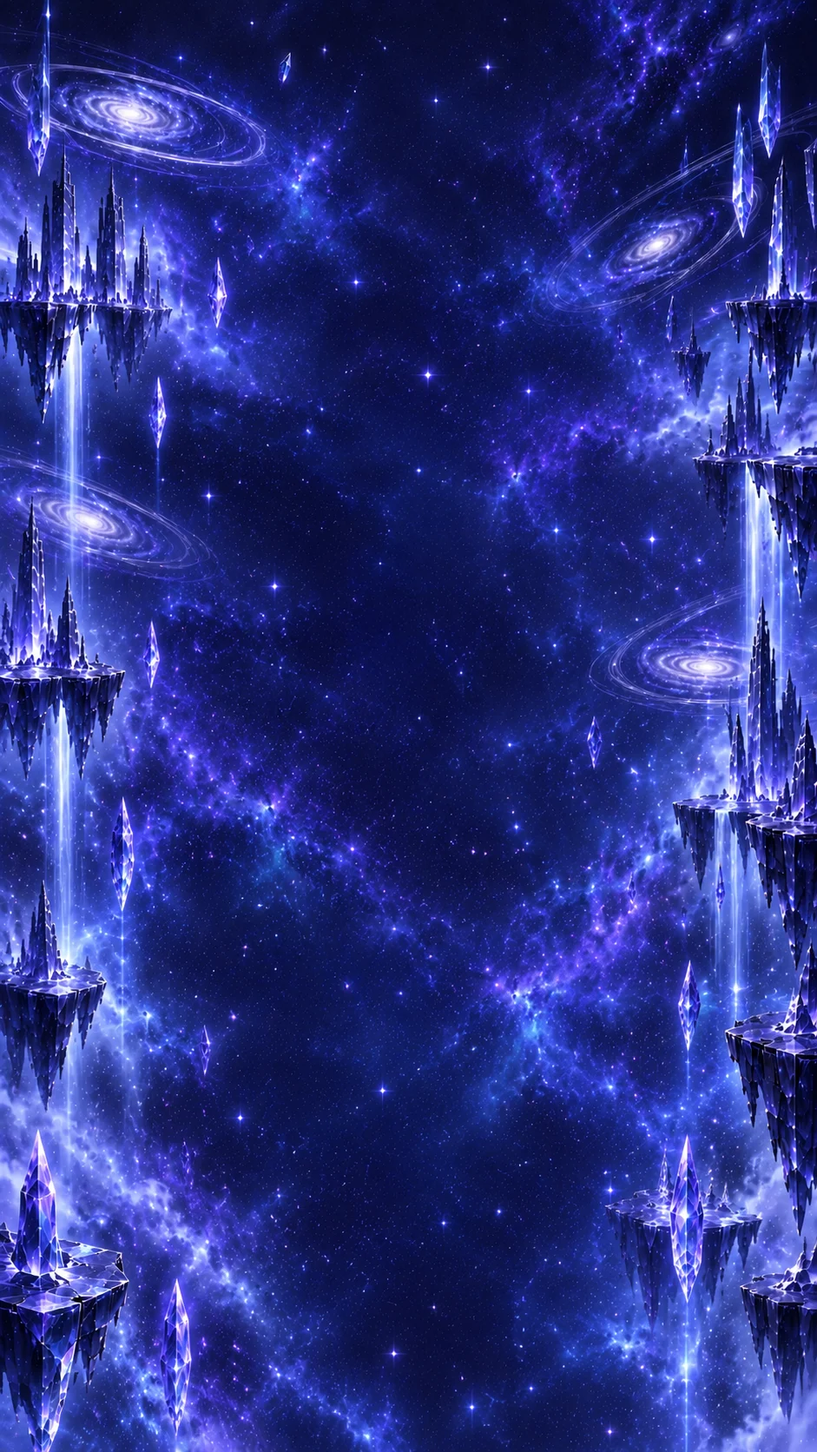
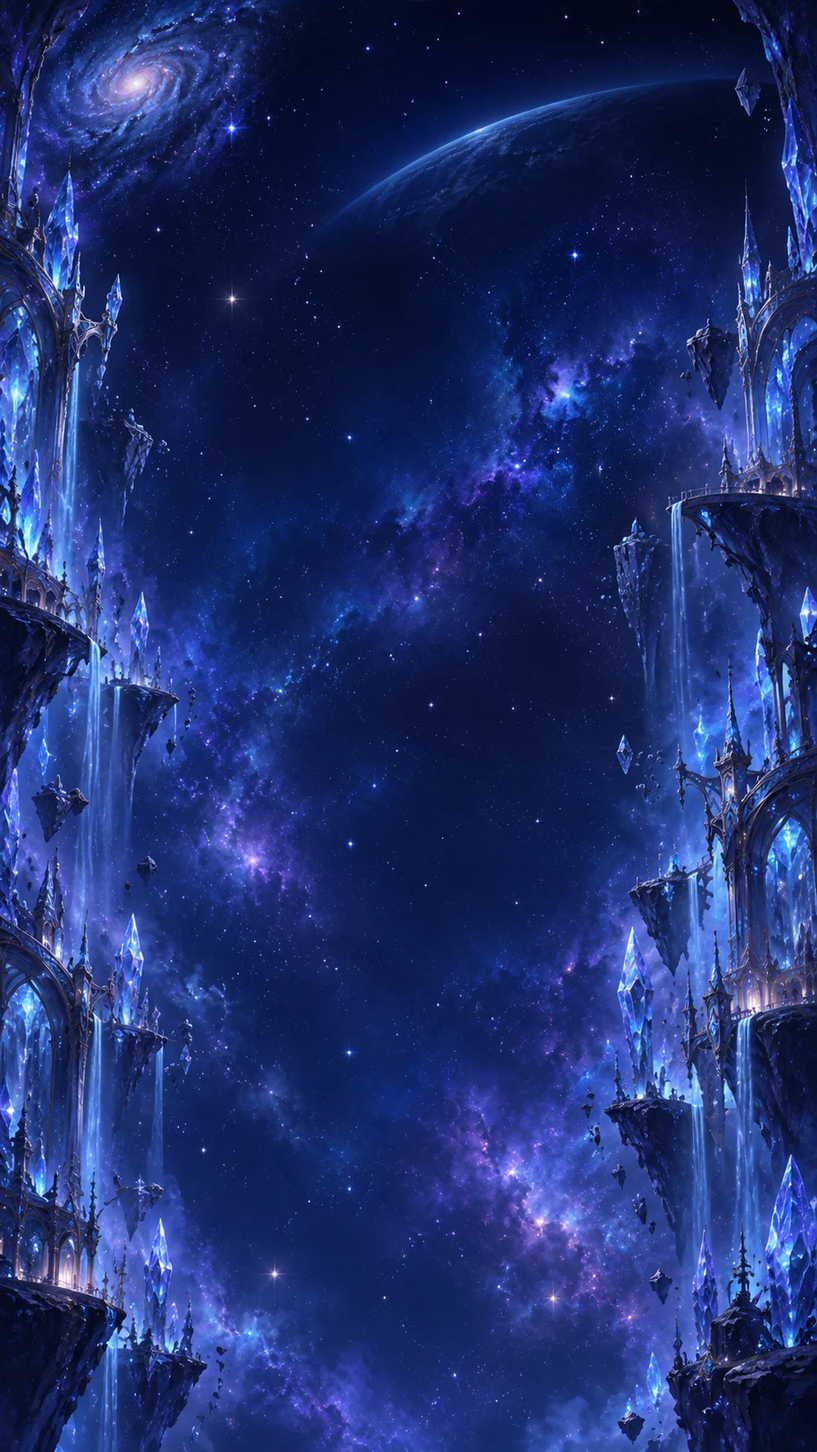
v225: 絵の中の世界を新素材で作り直し（背景・結晶・星環）。島・ステージ・敵は削除

diff --git a/index.html b/index.html
@@ -2023,17 +2023,6 @@ body{background:linear-gradient(180deg,#0a0020 0%,#12002e 40%,#180040 70%,#1a003
 .pzx-screen .reset{min-height:calc(30 * var(--u));padding:0 calc(14 * var(--u));border-radius:999px;border:1px solid rgba(255,140,160,.35);background:transparent;color:#c9a0aa;font-family:inherit;font-size:calc(10.5 * var(--u));cursor:pointer;margin-top:calc(-4 * var(--u));}
 .pzx-screen .reset.ask{border-color:#ff8fa3;color:#ffd0d8;background:rgba(255,80,110,.12);}
 .pzx-screen .home{min-height:calc(38 * var(--u));padding:0 calc(22 * var(--u));border-radius:999px;border:1px solid rgba(190,180,255,.35);background:rgba(20,16,50,.65);color:#d6cfff;font-family:inherit;font-size:calc(12.5 * var(--u));cursor:pointer;}
-/* 中のマップ（仮：道と6個の丸。絵が来たら差し替え） */
-.pzx-map{position:relative;width:min(94vw,calc(330 * var(--u)));aspect-ratio:330 / 420;border-radius:calc(16 * var(--u));overflow:hidden;background:rgba(10,12,40,.6);box-shadow:0 0 0 1px rgba(190,180,255,.25),0 12px 30px rgba(0,0,0,.5);}
-.pzx-map .bg{position:absolute;inset:0;width:100%;height:100%;object-fit:cover;opacity:.18;filter:blur(2px) saturate(.8);}
-.pzx-map svg{position:absolute;inset:0;width:100%;height:100%;}
-.pzx-map path.road{fill:none;stroke:rgba(200,190,255,.45);stroke-width:3;stroke-dasharray:6 7;}
-.pzx-nd{cursor:pointer;}
-.pzx-nd circle.o{fill:rgba(30,24,80,.85);stroke:rgba(200,180,255,.7);stroke-width:2;}
-.pzx-nd circle.g{fill:none;stroke:rgba(200,180,255,.35);stroke-width:6;filter:blur(3px);}
-.pzx-nd text{fill:#fff3c4;font-family:'Cinzel',serif;font-weight:700;font-size:15px;text-anchor:middle;dominant-baseline:central;}
-.pzx-nd text.s{fill:#b9b2d8;font-family:'Noto Serif JP',serif;font-weight:400;font-size:8px;}
-.pzx-nd.soon{opacity:.55;cursor:default;}
 /* ===== v217 パズルクス：絵の中の世界（浮遊マップ）と結果 ===== */
 .pzx-world{--u:min(calc(100vw / 360),calc(100dvh / 640));position:fixed;inset:0;background:#07091b;display:flex;flex-direction:column;align-items:center;font-family:'Noto Serif JP',serif;color:#e6ecfa;overflow:hidden;}
 .pzx-world .top{position:absolute;left:0;top:0;width:100%;display:flex;align-items:center;justify-content:space-between;padding:calc(10 * var(--u)) calc(12 * var(--u)) calc(4 * var(--u));z-index:2;background:linear-gradient(180deg,rgba(7,9,27,.7),transparent);}
@@ -2042,43 +2031,7 @@ body{background:linear-gradient(180deg,#0a0020 0%,#12002e 40%,#180040 70%,#1a003
 .pzx-world .top button{min-height:calc(32 * var(--u));padding:0 calc(14 * var(--u));border-radius:999px;border:1px solid rgba(190,180,255,.35);background:rgba(20,16,50,.7);color:#d6cfff;font-family:inherit;font-size:calc(11.5 * var(--u));cursor:pointer;}
 .pzx-world .sky{position:absolute;inset:0;}
 .pzx-world .stage{position:absolute;inset:0;}
-.pzx-snap{position:absolute;inset:0;z-index:5;display:flex;flex-direction:column;align-items:center;justify-content:center;gap:calc(12 * var(--u));background:rgba(4,6,24,.72);animation:pzxCard .3s ease both;}
-.pzx-snap .pzx-panel{width:min(94vw,calc(340 * var(--u)));}
-.pzx-snap .pzx-panel .pc.new{z-index:4;animation:pzxSnapIn .9s cubic-bezier(.16,.8,.26,1) both;}
-@keyframes pzxSnapIn{0%{opacity:0;transform:translateY(-60%) scale(1.35);filter:brightness(1.8)}70%{opacity:1;transform:translateY(0) scale(1.02);filter:brightness(1.5)}100%{transform:none;filter:brightness(1)}}
-.pzx-snap .k{font-family:'Cinzel',serif;font-size:calc(10 * var(--u));letter-spacing:.35em;color:#b9a8ff;}
-.pzx-snap .pget{font-size:calc(15 * var(--u));font-weight:700;letter-spacing:.3em;color:#ffe08a;text-shadow:0 0 calc(12 * var(--u)) rgba(255,224,138,.6);animation:pzxCard .5s ease 1s both;}
-.pzx-world .frame{position:absolute;left:0;right:0;top:calc(48 * var(--u));bottom:0;}
 .pzx-world canvas{display:block;width:100%;height:100%;}
-.pzx-world .hit{position:absolute;width:19%;height:9%;transform:translate(-50%,-50%);background:transparent;border:0;border-radius:50%;cursor:pointer;-webkit-tap-highlight-color:transparent;padding:0;}
-.pzx-world .hit.boss{width:30%;height:14%;}
-/* 下の札：選んだ島の説明 */
-.pzx-card{position:absolute;left:0;right:0;margin:0 auto;bottom:calc(14 * var(--u));width:min(94vw,calc(340 * var(--u)));animation:pzxCard .28s ease both;padding:calc(10 * var(--u)) calc(14 * var(--u)) calc(12 * var(--u));border-radius:calc(14 * var(--u));background:rgba(10,12,40,.86);border:1px solid rgba(190,180,255,.3);box-shadow:0 10px 30px rgba(0,0,0,.5);z-index:2;}
-.pzx-card .hd{display:flex;align-items:baseline;justify-content:space-between;gap:calc(8 * var(--u));padding-right:calc(26 * var(--u));}
-.pzx-card .x{position:absolute;right:calc(8 * var(--u));top:calc(6 * var(--u));width:calc(28 * var(--u));height:calc(28 * var(--u));border-radius:50%;border:1px solid rgba(190,180,255,.35);background:rgba(20,16,50,.7);color:#d6cfff;font-size:calc(14 * var(--u));cursor:pointer;display:flex;align-items:center;justify-content:center;}
-.pzx-card .no{font-family:'Cinzel',serif;font-size:calc(10 * var(--u));letter-spacing:.3em;color:#b9a8ff;}
-.pzx-card .nm{font-size:calc(15 * var(--u));font-weight:700;letter-spacing:.12em;}
-.pzx-card .st{font-size:calc(10 * var(--u));color:#ded2b1;letter-spacing:.06em;white-space:nowrap;}
-.pzx-card .st.got{color:#ffe08a;}
-.pzx-card .foe{font-size:calc(11 * var(--u));color:#c9c2ea;margin-top:calc(3 * var(--u));line-height:1.6;}
-.pzx-card .cd{margin-top:calc(7 * var(--u));padding:calc(7 * var(--u)) calc(10 * var(--u));border-radius:calc(8 * var(--u));background:rgba(255,224,138,.07);border:1px solid rgba(255,224,138,.28);font-size:calc(12 * var(--u));line-height:1.6;color:#fff3c4;}
-.pzx-card .cd .l{font-family:'Cinzel',serif;font-size:calc(9 * var(--u));letter-spacing:.3em;color:#ffd27a;display:block;margin-bottom:calc(2 * var(--u));}
-.pzx-card .lk{margin-top:calc(7 * var(--u));font-size:calc(11 * var(--u));color:#9f9ac0;text-align:center;line-height:1.6;}
-.pzx-card .go{margin-top:calc(8 * var(--u));width:100%;min-height:calc(44 * var(--u));border-radius:999px;border:1px solid rgba(255,224,138,.55);background:linear-gradient(135deg,rgba(255,224,138,.22),rgba(150,120,255,.22));color:#fff3c4;font-family:inherit;font-size:calc(14 * var(--u));font-weight:700;letter-spacing:.24em;cursor:pointer;}
-.pzx-card .go:active{transform:scale(.98);}
-.pzx-card .go:disabled{opacity:.4;cursor:default;}
-/* 結果 */
-.pzx-res .k2{font-family:'Cinzel',serif;font-size:calc(10 * var(--u));letter-spacing:.35em;color:#b9a8ff;margin-bottom:calc(-4 * var(--u));}
-.pzx-res .cond{width:100%;margin-top:calc(8 * var(--u));padding:calc(9 * var(--u)) calc(12 * var(--u));border-radius:calc(10 * var(--u));background:rgba(255,255,255,.04);border:1px solid rgba(190,180,255,.25);font-size:calc(12 * var(--u));line-height:1.65;color:#d6d2ea;text-align:left;}
-.pzx-res .cond .l{font-family:'Cinzel',serif;font-size:calc(9 * var(--u));letter-spacing:.3em;color:#b9a8ff;display:block;}
-.pzx-res .cond.ok{border-color:rgba(255,224,138,.6);background:rgba(255,224,138,.08);color:#fff3c4;}
-.pzx-res .cond .mk{float:right;font-weight:700;font-size:calc(14 * var(--u));}
-.pzx-res .cond.ok .mk{color:#ffe08a;}
-.pzx-res .cond.ng .mk{color:#9f9ac0;}
-.pzx-res .piece{width:min(70vw,calc(200 * var(--u)));aspect-ratio:557 / 470;object-fit:cover;border-radius:calc(6 * var(--u));margin:calc(10 * var(--u)) auto 0;display:block;box-shadow:0 0 0 1px rgba(255,224,138,.5),0 0 calc(24 * var(--u)) rgba(255,210,110,.35);animation:pzxIn .8s cubic-bezier(.2,1.2,.4,1) .2s both;}
-.pzx-res .pget{font-size:calc(13 * var(--u));font-weight:700;letter-spacing:.3em;color:#ffe08a;text-align:center;margin-top:calc(8 * var(--u));text-shadow:0 0 calc(12 * var(--u)) rgba(255,224,138,.6);animation:pzxIn .6s ease .7s both;}
-.pzx-res .stats{display:flex;justify-content:center;gap:calc(14 * var(--u));margin-top:calc(8 * var(--u));font-family:'Fira Code',monospace;font-size:calc(10.5 * var(--u));color:#9f9ac0;}
-.pzx-res .stats b{color:#e6ecfa;font-weight:400;}
 /* v200 ともしび：灯りの当たっていない札 */
 .card-stage.lantern-dark{filter:brightness(.28) saturate(.4);transition:filter .3s;}
 .card-stage.lantern-dark .cs-num,.card-stage.lantern-dark .num{color:#6b6f8a!important;text-shadow:none!important;}
@@ -3217,7 +3170,8 @@ function TutorialScreen({pendingDiff,onFinish,onExit,trackNum,toggleMusic,coachN
 
 
 // ── MenuScreen ──
-const APP_VER='v224'; // v224(2026/09/15): 島の位置を全体に少し上へ（ステージ1が画面の下すぎた）
+const APP_VER='v225'; // v225(2026/09/15): 絵の中の世界を作り直し（くるみ提供 tenkuru-world-assets：背景・浮遊する結晶・星環）。島・ステージ・敵・条件・道の演出は全部削除。ステージはくるみの画像が来てからこの上に足す
+// const APP_VER='v224'; // v224(2026/09/15): 島の位置を全体に少し上へ（ステージ1が画面の下すぎた）
 // const APP_VER='v223'; // v223(2026/09/15): 勝ったら結果→「絵の中へ戻る」だけ（連続対戦なし）。マップに戻ると ①ピース獲得なら中央にパネルが出てピースがはまる ②道に光が走って次の島の鎖が外れる。ネフィラの島のロックは専用の鎖絵（boss-lock.webp）
 // const APP_VER='v222'; // v222(2026/09/15): ロック中の島は鎖つきの島（img/pzx/island-lock.webp）。開いた島は次にマップを見た時に鎖が光って外れる（1回だけ、save.pzx.seen）
 // const APP_VER='v221'; // v221(2026/09/14): 絵の中のマップのズレ修正（島の札が右にはみ出す／ボスが上のバーに隠れる）
@@ -3416,7 +3370,7 @@ const AREA_01={
   ]
 };
 const STAGES={
-  areas:[AREA_01], // [1]=v217 パズルクス（絵の中）は PZX_AREA 定義の直後に push（本編のマップには出ない）
+  areas:[AREA_01],
   // マップ上の座標（viewBox 360×360、下から上へ。AREA_01.stages と同じ順）
   pos:[[56,322],[132,294],[224,318],[298,270],[246,218],[148,240],[66,188],[126,132],[230,154],[190,58],[300,112],[318,38],[248,-18],[170,-70]],
   // v127: [12]=チャレンジ③セトラ。ステージを増やす時はここに座標を足さないと pos[i] が undefined になり画面が真っ白になる
@@ -3463,32 +3417,16 @@ const PZX={dir:'img/pzx/',w:1672,h:941,outline:'outline.webp',complete:'complete
   // マップの仮ノード（viewBox 330×420、下から上へ）。ステージの中身は未定
   map:[{no:1,x:60,y:370},{no:2,x:170,y:330},{no:3,x:270,y:270},{no:4,x:180,y:210},{no:5,x:80,y:150},{no:6,x:170,y:60}],
 };
-// ── v217 パズルクス：絵の中の世界。7つの島＝6ステージ＋ボス。数値はここだけで調整 ──
-// 相手は通常ステージと同じ強化（DEALER_BOOST：判断力+2段、速さ×0.6）が乗る。noBoost:true の島は乗らない（数値をそのまま使う）
-// 勝てば次の島が開く。ピースは「条件」を満たした勝ちでだけ貰える。ボスは6ピースそろうと開く
-// 条件の判定に使えるもの：勝ち／自分の点／相手の点／自分のバースト回数／自分が作った10（役名・枚数）／試合秒数
-const PZX_STAGES=[
-  {no:101,rivalName:'第一の番人',name:'静かな岸',description:'絵の中の入口。まずは崩れずに',icon:'card',winPt:10,diff:'normal',rule:'normal',speed:.85,smart:true,
-    cond:{text:'バースト0で勝つ。相手は5点以下に抑える',check:m=>m.win&&m.bursts===0&&m.dp<=5}},
-  {no:102,rivalName:'第二の番人',name:'重ねの島',description:'役をつないで押し切る',icon:'card',winPt:12,diff:'normal',rule:'normal',speed:.8,smart:true,
-    cond:{text:'役つきの10（ワンペア以上）を4回作って勝つ',check:m=>m.win&&m.tens.filter(t=>t.voice!=='役なし').length>=4}},
-  {no:103,rivalName:'第三の番人',name:'風の裂け目',description:'考える間はない。7秒で結べ',icon:'clock',winPt:10,diff:'normal',rule:'normal',timeLimit:7,speed:.7,smart:true,
-    cond:{text:'75秒以内に勝つ',check:m=>m.win&&m.sec<=75}},
-  {no:104,rivalName:'第四の番人',name:'三つ星の岩',description:'同じ数を三つ。狙って作る',icon:'card',winPt:12,diff:'normal',rule:'normal',speed:.75,smart:true,
-    cond:{text:'スリーカードを2回作って勝つ',check:m=>m.win&&m.tens.filter(t=>t.voice==='スリーカード').length>=2}},
-  {no:105,rivalName:'第五の番人',name:'封じの塔',description:'相手はこちらに10を作らせない。ならこちらも',icon:'card',winPt:10,diff:'normal',rule:'normal',speed:.7,smart:true,deny:true,
-    cond:{text:'相手を0点に抑えて勝つ',check:m=>m.win&&m.dp===0}},
-  {no:106,rivalName:'第六の番人',name:'一筆の橋',description:'凍る手札の中で 1・2・3・4 を通す',icon:'snow',winPt:12,diff:'normal',rule:'normal',speed:.7,smart:true,ability:'freeze',playerRing:true,
-    cond:{text:'ストレート（1・2・3・4）を作って勝つ',check:m=>m.win&&m.tens.some(t=>t.voice==='ストレート')}},
-  {no:107,rivalName:'ネフィラ',name:'ネフィラ',description:'絵の中心に立つ星環の観測者。全てを観測し、10を作らせない',icon:'card',winPt:20,diff:'master',rule:'normal',speed:.2,smart:true,deny:true,ability:'orbit',playerRing:true,noBoost:true,boss:true,bgm:'Clockwork%20Waltz.mp3',
-    cond:{text:'勝つ（バースト2回まで）',check:m=>m.win&&m.bursts<=2}},
-];
-const PZX_AREA={id:'pzx',name:'絵の中',stages:PZX_STAGES};
-STAGES.areas[1]=PZX_AREA;
-// 島の位置（幅・高さに対する割合、下から上へ。最後がボス）
-const PZX_NODES=[{x:.29,y:.79},{x:.70,y:.70},{x:.31,y:.61},{x:.69,y:.52},{x:.31,y:.43},{x:.70,y:.34},{x:.50,y:.19}]; // v224 ステージ1が下すぎたので全体を少し上へ
-function pzxState(save){const P=(save&&save.pzx)||{};return {got:P.got||[],won:P.won||[],boss:!!P.boss};}
-function pzxOpen(save,i){const P=pzxState(save);if(i>=6)return P.got.length>=PZX.pieces.length;if(i===0)return true;return P.won.includes(PZX_STAGES[i-1].no)||P.got.includes(i-1);} // ピースを持っている島は勝ったとみなす
+// ── v225 パズルクス：絵の中の世界。背景・浮遊する結晶・星環だけ（ステージはくるみの画像が来てから上に足す）。数値はここだけで調整 ──
+const PZX_WORLD={
+  ring:{x:.5,y:.36,size:1.05,spin:80,alpha:.9},          // 星環：中心(幅・高さの割合)、大きさ(幅比)、1周の秒数、濃さ
+  crystals:[ // 浮遊する結晶：位置、大きさ(幅比)、上下の幅(px@430)、周期(秒)、傾き(度)、濃さ（奥のものは薄く小さく）
+    {x:.14,y:.30,s:.13,bob:6,per:5.2,rot:-8,a:.95},{x:.86,y:.24,s:.10,bob:5,per:6.1,rot:10,a:.9},
+    {x:.22,y:.62,s:.08,bob:4,per:4.6,rot:6,a:.75},{x:.80,y:.58,s:.11,bob:6,per:5.7,rot:-12,a:.85},
+    {x:.50,y:.80,s:.07,bob:4,per:6.8,rot:3,a:.7},{x:.36,y:.14,s:.05,bob:3,per:7.4,rot:14,a:.55},{x:.66,y:.90,s:.05,bob:3,per:6.4,rot:-5,a:.5},
+  ],
+};
+function pzxState(save){const P=(save&&save.pzx)||{};return {got:P.got||[]};}
 function boostDiff(d){if(!DEALER_BOOST.enabled)return d;const i=DIFF_ORDER.indexOf(d);return i<0?d:DIFF_ORDER[Math.min(3,i+DEALER_BOOST.diffUp)];}
 // ── v197 パズル用の新ギミック（相手の星環カードを場に出した瞬間だけ発動）：数値はここだけで調整 ──
 // 毎ラウンド開始時 GK_RING_RATE の確率で、相手の手札1枚に星環が付く。相手はその札を普通に出せる
@@ -4112,7 +4050,7 @@ function GameEndScreen({data,onRestart,onHome}){
 function PzxPanel({save,onEnter,onBack,onReset}){
   const st=pzxState(save),N=PZX.pieces.length,done=st.got.length>=N;
   const[ask,setAsk]=useState(false); // v218 リセットは2回押し
-  const has=st.got.length||st.won.length||st.boss;
+  const has=st.got.length;
   return h('div',{className:'pzx-screen'},
     h('div',{className:'k'},'PUZZLUX'),h('div',{className:'t'},'パズルクス'),h('div',{className:'sub'},'ネフィラ'),
     h('div',{className:'pzx-panel'},
@@ -4120,33 +4058,16 @@ function PzxPanel({save,onEnter,onBack,onReset}){
       !done&&PZX.pieces.map((p,i)=>st.got.includes(i)&&h('img',{key:p.id,className:'pc',src:PZX.dir+p.id+'.webp',alt:'',draggable:false,style:{left:(p.x/PZX.w*100)+'%',top:(p.y/PZX.h*100)+'%',width:(p.w/PZX.w*100)+'%',height:(p.h/PZX.h*100)+'%'}})),
       done&&h('img',{className:'cp',src:PZX.dir+PZX.complete,alt:'',draggable:false})
     ),
-    h('div',{className:'prog'},'PIECE '+st.got.length+' / '+N+(st.boss?'　CLEAR':'')),
+    h('div',{className:'prog'},'PIECE '+st.got.length+' / '+N),
     h('button',{className:'enter',onClick:onEnter},'中へ入る'),
     h('button',{className:'home',onClick:onBack},'ホームへ'),
     !!has&&h('button',{className:'reset'+(ask?' ask':''),onClick:()=>{if(!ask){setAsk(true);return;}setAsk(false);onReset();}},ask?'ほんまに消す？（もう一度押す）':'はじめから'), // v218
     ask&&h('button',{className:'reset',onClick:()=>setAsk(false)},'やめる')
   );
 }
-// ── v217 パズルクス：絵の中の世界（浮遊マップ）。島がゆっくり上下し、光の道でつながる ──
-function PzxWorld({save,onPick,onBack,arrive,onArrived}){
-  const P=pzxState(save);
-  // v223 対戦から戻った時の演出（arrive={from,gotPiece,unlock}）：①ピースがパネルにはまる ②道が光って次の島へ ③鎖が外れる
-  const animR=useRef(null);const[snap,setSnap]=useState(null);const[busy,setBusy]=useState(!!arrive);
-  useEffect(()=>{
-    if(!arrive){return;}
-    const ts=[];const at=(ms,f)=>ts.push(setTimeout(f,ms));let t=300;
-    const A={from:arrive.from,unlock:arrive.unlock,pending:arrive.unlock!=null,light:null,chain:null};animR.current=A;
-    if(arrive.gotPiece!=null){at(t,()=>{setSnap({idx:arrive.gotPiece});try{resumeAC();fxBell({f:1568,v:0.06,d:1.0,bright:1.2,rev:0.7,t:0.9});}catch(e){}});t+=2600;at(t,()=>setSnap(null));t+=200;}
-    if(arrive.unlock!=null){
-      at(t,()=>{A.light={from:arrive.from,to:arrive.unlock,t0:performance.now(),dur:1300};try{resumeAC();fxTone({f:660,f2:1760,type:'sine',v:0.05,a:0.01,d:1.2,rev:0.6});}catch(e){}});t+=1300;
-      at(t,()=>{A.pending=false;A.chain={idx:arrive.unlock,t0:performance.now()};try{resumeAC();fxBell({f:2093,v:0.07,d:1.4,bright:1.4,rev:0.8});}catch(e){}});t+=1600;
-    }
-    at(t,()=>{animR.current=null;setBusy(false);onArrived&&onArrived();});
-    return()=>ts.forEach(clearTimeout);
-  },[]);
-  const firstOpen=PZX_STAGES.findIndex((st,i)=>pzxOpen(save,i)&&!P.won.includes(st.no));
-  const[sel,setSel]=useState(firstOpen>=0?firstOpen:(P.got.length>=6&&!P.boss?6:0));const[card,setCard]=useState(false); // 札は島を押した時だけ
-  const canvasR=useRef(null),wrapR=useRef(null),selR=useRef(sel);selR.current=sel;
+// ── v225 パズルクス：絵の中の世界。背景がゆっくり流れ、結晶が浮き、星環が回る。ステージはこの上に後から足す ──
+function PzxWorld({onBack}){
+  const canvasR=useRef(null),wrapR=useRef(null);
   useEffect(()=>{
     const cv=canvasR.current,wrap=wrapR.current;if(!cv||!wrap)return;
     const ctx=cv.getContext&&cv.getContext('2d');if(!ctx)return;let W=0,H=0,raf=0,last=0,t=0,alive=true,imgs=null;
@@ -4154,89 +4075,21 @@ function PzxWorld({save,onPick,onBack,arrive,onArrived}){
     const load=u=>new Promise(res=>{const im=new Image();im.onload=()=>res(im);im.onerror=()=>res(null);im.src=u;});
     const resize=()=>{W=wrap.clientWidth;H=wrap.clientHeight;const dpr=Math.min(window.devicePixelRatio||1,2);cv.width=Math.round(W*dpr);cv.height=Math.round(H*dpr);ctx.setTransform(dpr,0,0,dpr,0,0);};
     resize();const ro=window.ResizeObserver?new ResizeObserver(resize):null;if(ro)ro.observe(wrap);
-    const fr=()=>{const f=wrap.querySelector('.frame');return f?{t:f.offsetTop,h:f.clientHeight}:{t:0,h:H};};
-    const pos=()=>{const F=fr();return PZX_NODES.map((n,i)=>({x:n.x*W,y:F.t+n.y*F.h+(reduced?0:Math.sin(t*(.76+i*.037)+i*1.1)*(i===6?3:4)*W/430)}));};
     const draw=()=>{
       if(!imgs)return;const c=ctx;c.clearRect(0,0,W,H);
       const drift=reduced?0:Math.sin(t*.12)*W*.006;if(imgs.bg){const k=Math.max(W/imgs.bg.width,H/imgs.bg.height)*1.04,bw=imgs.bg.width*k,bh=imgs.bg.height*k;c.drawImage(imgs.bg,(W-bw)/2+drift,(H-bh)/2,bw,bh);} // 画面いっぱい（cover）
-      c.fillStyle='rgba(4,8,31,.32)';c.fillRect(0,0,W,H);
-      for(let i=0;i<25;i++){const x=((i*137.7)%997)/997*W,y=(((i*251.3)%991)/991*H-t*(1+i%3)*.55+H*20)%H;c.globalAlpha=.24+.3*(.5+.5*Math.sin(t*.5+i));c.fillStyle=i%2?'#b9bdff':'#e0f6ff';c.beginPath();c.arc(x,y,.65+(i%3)*.25,0,Math.PI*2);c.fill();}c.globalAlpha=1;
-      const p=pos(),cur=selR.current,A=animR.current;
-      const isOpen=i=>pzxOpen(save,i)&&!(A&&A.pending&&A.unlock===i); // 演出待ちの島はまだ鎖つき
-      c.save();c.lineCap='round';
-      for(let i=0;i<6;i++){const a=p[i],b=p[i+1],mid=(a.y+b.y)/2,lit=isOpen(i+1);
-        c.beginPath();c.moveTo(a.x,a.y);c.bezierCurveTo(a.x,mid,b.x,mid,b.x,b.y);
-        c.strokeStyle='#7081fb';c.lineWidth=7*W/430;c.shadowColor='#6b6cff';c.shadowBlur=10;c.globalAlpha=lit?.27:.1;c.stroke();
-        c.globalAlpha=lit?.8:.25;c.shadowBlur=0;c.strokeStyle='#c5dfff';c.lineWidth=1.15*W/430;c.stroke();}
-      c.restore();
-      if(A&&A.light){ // 光が道を走る（from→to のベジェを 0→k まで明るくなぞり、先頭に光の玉）
-        const L=A.light,k=Math.min(1,(performance.now()-L.t0)/L.dur),a=p[L.from],b=p[L.to],mid=(a.y+b.y)/2;
-        const pt=u=>{const v=1-u;return{x:v*v*v*a.x+3*v*v*u*a.x+3*v*u*u*b.x+u*u*u*b.x,y:v*v*v*a.y+3*v*v*u*mid+3*v*u*u*mid+u*u*u*b.y};};
-        c.save();c.lineCap='round';c.beginPath();const n=40;for(let j=0;j<=n*k;j++){const q=pt(j/n);if(j===0)c.moveTo(q.x,q.y);else c.lineTo(q.x,q.y);}
-        c.strokeStyle='#ffffff';c.lineWidth=3*W/430;c.shadowColor='#bfe6ff';c.shadowBlur=18;c.globalAlpha=.95;c.stroke();
-        const hd=pt(k);c.beginPath();c.arc(hd.x,hd.y,7*W/430,0,Math.PI*2);c.fillStyle='#ffffff';c.shadowBlur=30;c.fill();c.restore();
-      }
-      for(let i=6;i>=0;i--){const boss=i===6,size=W*(boss?.55:.34),img=boss?imgs.boss:imgs.isl,a=p[i],anchor=boss?.59:.325,open=pzxOpen(save,i);if(!img)continue;
-        const open2=isOpen(i),fresh=A&&A.chain&&A.chain.idx===i?Math.min(1,Math.max(0,(performance.now()-A.chain.t0-300)/1100)):null; // 0→1 で鎖が消える
-        const lockImg=boss?imgs.blk:imgs.lock;
-        c.save();c.shadowColor=cur===i?'#c0bdff':'#4959e0';c.shadowBlur=cur===i?14:3;
-        if(lockImg&&(!open2||(fresh!=null&&fresh<1))){ // 鎖の島（ロック中、または外れる途中）
-          if(fresh!=null){c.globalAlpha=1;c.drawImage(img,a.x-size/2,a.y-size*anchor,size,size);c.globalAlpha=1-fresh;if(fresh>0&&fresh<1){c.shadowColor='#ffffff';c.shadowBlur=36*(1-fresh);}}
-          c.drawImage(lockImg,a.x-size/2,a.y-size*anchor,size,size);c.restore();continue;
-        }
-        c.drawImage(img,a.x-size/2,a.y-size*anchor,size,size);c.restore();
-        // 印：勝った島は小さな星、ピースを取った島は金の星
-        const st=PZX_STAGES[i],won=P.won.includes(st.no),got=boss?P.boss:P.got.includes(i);
-        if(won||got){c.save();c.font='bold '+(13*W/430)+'px serif';c.textAlign='center';c.textBaseline='middle';c.fillStyle=got?'#ffe08a':'#b9bdff';c.shadowColor=got?'#ffd27a':'#8fa0ff';c.shadowBlur=10;c.fillText(got?'★':'✦',a.x,a.y-size*(boss?.68:.36));c.restore();}
-        if(false){c.save();c.globalAlpha=.9;c.fillStyle='rgba(230,232,245,.85)';const r=8*W/430;c.beginPath();c.arc(a.x,a.y-size*.02,r,0,Math.PI*2);c.fill();c.fillStyle='#4a3f88';c.fillRect(a.x-r*.38,a.y-size*.02-r*.05,r*.76,r*.6);c.lineWidth=r*.18;c.strokeStyle='#4a3f88';c.beginPath();c.arc(a.x,a.y-size*.02-r*.1,r*.3,Math.PI,0);c.stroke();c.restore();}
-      }
+      for(let i=0;i<30;i++){const x=((i*137.7)%997)/997*W,y=(((i*251.3)%991)/991*H-t*(1+i%3)*.5+H*20)%H;c.globalAlpha=.2+.3*(.5+.5*Math.sin(t*.5+i));c.fillStyle=i%2?'#b9bdff':'#e0f6ff';c.beginPath();c.arc(x,y,.6+(i%3)*.25,0,Math.PI*2);c.fill();}c.globalAlpha=1;
+      const R=PZX_WORLD.ring;if(imgs.ring){const sz=W*R.size,ang=reduced?0:(t/R.spin)*Math.PI*2;c.save();c.translate(R.x*W,R.y*H);c.rotate(ang);c.globalAlpha=R.alpha*(.85+.15*Math.sin(t*.7));c.drawImage(imgs.ring,-sz/2,-sz/2,sz,sz);c.restore();}
+      if(imgs.cr)PZX_WORLD.crystals.forEach((k,i)=>{const sz=W*k.s,bob=reduced?0:Math.sin(t*(Math.PI*2/k.per)+i)*k.bob*W/430,sway=reduced?0:Math.sin(t*(Math.PI*2/(k.per*1.7))+i*.7)*1.5;
+        c.save();c.translate(k.x*W,k.y*H+bob);c.rotate((k.rot+sway)*Math.PI/180);c.globalAlpha=k.a;c.shadowColor='#8fa0ff';c.shadowBlur=14*k.a;c.drawImage(imgs.cr,-sz/2,-sz/2,sz,sz);c.restore();});
     };
     const loop=now=>{if(!alive)return;if(last&&document.visibilityState!=='hidden')t+=Math.min((now-last)/1000,.05);last=now;draw();raf=requestAnimationFrame(loop);};
-    Promise.all([load(PZX.dir+'world-bg.webp'),load(PZX.dir+'island.webp'),load(PZX.dir+'boss.webp'),load(PZX.dir+'island-lock.webp'),load(PZX.dir+'boss-lock.webp')]).then(([bg,isl,boss,lock,blk])=>{if(!alive)return;imgs={bg,isl,boss,lock,blk};raf=requestAnimationFrame(loop);});
+    Promise.all([load(PZX.dir+'world-bg.webp'),load(PZX.dir+'crystal.webp'),load(PZX.dir+'star-ring.webp')]).then(([bg,cr,ring])=>{if(!alive)return;imgs={bg,cr,ring};raf=requestAnimationFrame(loop);});
     return()=>{alive=false;cancelAnimationFrame(raf);if(ro)ro.disconnect();};
-  },[save]);
-  const st=PZX_STAGES[sel],open=pzxOpen(save,sel),won=P.won.includes(st.no),got=sel===6?P.boss:P.got.includes(sel);
-  const b=stageBrief(st);
+  },[]);
   return h('div',{className:'pzx-world'},
-    h('div',{className:'top'},h('button',{onClick:onBack},'‹ パネル'),h('div',{className:'k'},'PUZZLUX'),h('div',{className:'pc'},'PIECE '+P.got.length+' / '+PZX.pieces.length)),
-    h('div',{className:'sky'},h('div',{className:'stage',ref:wrapR},
-      h('canvas',{ref:canvasR}),
-      h('div',{className:'frame'},PZX_NODES.map((n,i)=>h('button',{key:i,className:'hit'+(i===6?' boss':''),style:{left:(n.x*100)+'%',top:(n.y*100)+'%'},'aria-label':i===6?'ボス':'ステージ'+(i+1),onClick:()=>{if(busy)return;setSel(i);setCard(true);try{resumeAC();fxTone({f:880,f2:1320,type:'sine',v:0.03,a:0.005,d:0.12,rev:0.3});}catch(e){}}})))
-    )),
-    snap&&h('div',{className:'pzx-snap'},h('div',{className:'k'},'PIECE'),
-      h('div',{className:'pzx-panel'},h('img',{className:'ol',src:PZX.dir+PZX.outline,alt:'',draggable:false}),
-        PZX.pieces.map((q,i)=>(P.got.includes(i)||i===snap.idx)&&h('img',{key:q.id,className:'pc'+(i===snap.idx?' new':''),src:PZX.dir+q.id+'.webp',alt:'',draggable:false,style:{left:(q.x/PZX.w*100)+'%',top:(q.y/PZX.h*100)+'%',width:(q.w/PZX.w*100)+'%',height:(q.h/PZX.h*100)+'%'}}))),
-      h('div',{className:'pget'},'ピース獲得　'+(P.got.length)+' / '+PZX.pieces.length)),
-    card&&!busy&&h('div',{className:'pzx-card'},
-      h('button',{className:'x',onClick:()=>setCard(false)},'✕'),
-      h('div',{className:'hd'},h('div',null,h('div',{className:'no'},sel===6?'BOSS':'STAGE '+(sel+1)),h('div',{className:'nm'},open?st.name:'？？？')),
-        h('div',{className:'st'+(got?' got':'')},got?(sel===6?'制覇':'ピース獲得済'):won?'勝利済':open?'未踏':'ロック')),
-      open&&h('div',{className:'foe'},'相手：'+b.rival+'　'+b.gName+'　先取 '+b.winPt+' pt'),
-      open&&h('div',{className:'cd'},h('span',{className:'l'},sel===6?'CLEAR':'PIECE'),st.cond.text),
-      !open&&h('div',{className:'lk'},sel===6?'ピースを6枚そろえると開く':'前の島に勝つと開く'),
-      h('button',{className:'go',disabled:!open,onClick:()=>open&&onPick(sel)},sel===6?'挑む':'この島へ')
-    )
-  );
-}
-// ── v217 パズルクス：結果。勝ち負け→条件の判定→ピース ──
-function PzxResult({data,st,idx,gotNow,pieceIdx,nextOpen,onNext,onRetry,onMap}){
-  const win=data.winner==='player',m=data.pzx,ok=!!m.ok,isBoss=idx===6;
-  useEffect(()=>{if(gotNow){const t=setTimeout(()=>{try{resumeAC();[1046,1318,1568,2093].forEach((f,i)=>fxBell({f,v:0.06,d:1.2,bright:1.2,rev:0.8,t:i*0.09}));}catch(e){}},300);return()=>clearTimeout(t);}},[]);
-  return h('div',{className:'sg-screen sg-end pzx-res'},
-    h('div',{className:'sg-end-card'},
-      h('div',{className:'k2'},isBoss?'BOSS':'STAGE '+(idx+1)),
-      h('div',{className:'title'},st.name),
-      h('div',{className:'badge'+(win?' win':'')},win?(isBoss?'制覇！':'勝利'):'まけ…'),
-      h('div',{className:'score'},
-        h('div',null,h('div',{className:'l'},'YOU'),h('div',{className:'v you'},data.pPt)),
-        h('div',{className:'vs'},'vs'),
-        h('div',null,h('div',{className:'l'},data.rivalName||'DEALER'),h('div',{className:'v'},data.dPt))
-      ),
-      h('div',{className:'stats'},h('span',null,'バースト ',h('b',null,m.bursts)),h('span',null,'役 ',h('b',null,m.tens.filter(t=>t.voice!=='役なし').length)),h('span',null,h('b',null,m.sec),'秒')),
-      h('div',{className:'cond '+(ok?'ok':'ng')},h('span',{className:'mk'},ok?'達成':'未達'),h('span',{className:'l'},isBoss?'CLEAR':'PIECE'),st.cond.text),
-      gotNow&&isBoss&&h('div',{className:'pget'},'絵の中を制覇した'),
-      win?h('button',{className:'sg-btn',onClick:onMap},'絵の中へ戻る'):[h('button',{key:'r',className:'sg-btn',onClick:onRetry},'もう一度'),h('button',{key:'m',className:'sg-btn ghost',onClick:onMap},'絵の中へ戻る')]
-    )
+    h('div',{className:'top'},h('button',{onClick:onBack},'‹ パネル'),h('div',{className:'k'},'PUZZLUX'),h('div',{className:'pc'},'')),
+    h('div',{className:'sky'},h('div',{className:'stage',ref:wrapR},h('canvas',{ref:canvasR})))
   );
 }
 const DEFAULT_LAYOUT={handW:53,handY:0,fieldW:64,sumSize:30,sumX:1,sumY:-8,gapDF:10,gapFH:38};
@@ -4966,8 +4819,6 @@ function App(){
     else{stopBGM();setPhase('menu');phaseR.current='menu';}
   }
   // ── ストーリー進行 ──
-  function goPzxWorld(){goMap();setPhase('pzxmap');phaseR.current='pzxmap';} // v217 goMap と同じ後始末をして絵の中のマップへ
-  function startPzxStage(i){if(phaseR.current==='brief'||phaseR.current==='playing'||phaseR.current==='intro')return;if(!pzxOpen(saveR.current,i))return;stageR.current=null;stageOptsR.current=null;startStage(1,i,true);} // v217
   function goMap(){roundTokR.current++;clearTimers();exitLink();stopBGM();setDemoMode(false);setShiftScene(null);setLkFx(null);flyR.current=null;setFlyCard(null);cancelCursor();clearConfuse();clearFrz();setPlayerRing(-1);setTsLeft2(0);tsUsedRoundR.current=-1;setHideLeft2(0);shiftPendingR.current=false;sceneOnR.current=false;setScreenPop(false);rStopR.current=false;setRStop(false);rStopT.current.forEach(clearTimeout);pausedR.current=false;setPaused(false);setInfoRing(null);stageR.current=null;stageOptsR.current=null;setStageCtx(null);setPhase('map');phaseR.current='map';}
   function openFlowSample(kind){
     const ar=STAGES.areas[0];
@@ -4982,8 +4833,6 @@ function App(){
   // v215 決着演出（静止→決定打の光→WIN/LOSE）：パズルクス用に残置。hitFxR=true の対戦だけ endGame で発火する
   const hitFxR=useRef(false);const[endFx,setEndFx]=useState(null);const endFxDoneR=useRef(false);
   const matchStatsR=useRef({bursts:0,tens:[],start:0}); // v217 1試合の記録（自分のバースト回数・作った10・開始時刻）。パズルクスの条件判定に使う
-  const pzxLastR=useRef(null); // v217 直近のパズルクス対戦（結果画面用）
-  const[pzxArrive,setPzxArrive]=useState(null); // v223 マップに戻った時の演出内容
   const[endHit,setEndHit]=useState(false);const[endHold,setEndHold]=useState(false);
   // 星環ギミック（霧・鎖・静寂・重罰・ともしび・砂時計）：エンジンだけ残置。gkKindR に種類、gkRateR に確率を入れた対戦で発動
   const gkKindR=useRef(null),gkRateR=useRef(0);
@@ -4993,7 +4842,6 @@ function App(){
     const ar=STAGES.areas[arIdx],st=ar.stages[stIdx];
     if(!st||st.comingSoon){goMap();return;} // v54: 準備中は開始しない
     if(phaseR.current==='playing')return;      // v54: 二重開始防止
-    hitFxR.current=(arIdx===1); // v217 パズルクスの対戦だけ決着演出
     stageR.current={ar:arIdx,st:stIdx};setStageCtx({ar:arIdx,st:stIdx});
     winPtR.current=st.winPt||WIN_PT;setWinPt(st.winPt||WIN_PT);
     const hook=RULE_HOOKS[st.rule];if(hook&&typeof hook.onStart==='function')hook.onStart(st); // ギミック差し込み口（未実装）
@@ -5773,27 +5621,15 @@ function App(){
     roundTokR.current++;stopBGM();
     let stars=0;
     const c=stageR.current;
-    if(c&&c.ar===1){ // v217 パズルクス：勝てば次の島、条件を満たせばピース（ボスは制覇）。本編の★には触らない
-      const i=c.st,st=PZX_STAGES[i],S=matchStatsR.current,won=(win==='player');
-      const m={win:won,pp,dp,bursts:S.bursts,tens:S.tens,sec:Math.round((Date.now()-S.start)/1000)};m.ok=!!(st.cond&&st.cond.check(m));
-      const before=pzxState(saveR.current);const gotNow=m.ok&&(i===6?!before.boss:!before.got.includes(i));
-      const nextOpenBefore=i<6&&pzxOpen(saveR.current,i+1);
-      if(won||m.ok)updSave(s=>{const P=pzxState(s);const wonL=won&&!P.won.includes(st.no)?[...P.won,st.no]:P.won;
-        s.pzx={got:(m.ok&&i<6&&!P.got.includes(i))?[...P.got,i]:P.got,won:wonL,boss:P.boss||(m.ok&&i===6)};return s;});
-      const nextOpenAfter=i<6&&!nextOpenBefore&&pzxOpen(saveR.current,i+1); // この勝ちで次の島が開いた（6枚そろってボスが開いた場合も含む）
-      pzxLastR.current={idx:i,gotNow,t:Date.now(),unlock:nextOpenAfter?i+1:null};
-      setGameEndData({pPt:pp,dPt:dp,winner:win,draw:win==='draw',diff:diffRef.current,stars:0,rivalName:stageOptsR.current&&stageOptsR.current.rivalName||null,pzx:m});
-      setPhase('gameEnd');phaseR.current='gameEnd';exitLink();return;
-    }
     if(c){const st=STAGES.areas[c.ar].stages[c.st];stars=calcStars(pp,dp,winPtR.current);if(stars>0)updSave(s=>{s.stars[st.no]=Math.max(s.stars[st.no]||0,stars);return s;});}
     setGameEndData({pPt:pp,dPt:dp,winner:win,draw:win==='draw',diff:diffRef.current,stars,rivalName:stageOptsR.current&&((form2R.current&&stageOptsR.current.form2Name)||stageOptsR.current.rivalName)||null});
     setPhase('gameEnd');phaseR.current='gameEnd';exitLink();
   }
-  function goHome(){if(stageR.current&&stageR.current.ar===1){goPzxWorld();return;}if(stageR.current){goMap();return;}roundTokR.current++;clearTimers();exitLink();stopBGM();setPhase('menu');}
+  function goHome(){if(stageR.current){goMap();return;}roundTokR.current++;clearTimers();exitLink();stopBGM();setPhase('menu');}
 
   const curStage=stageCtx?STAGES.areas[stageCtx.ar].stages[stageCtx.st]:null;
-  if(phase==='pzx')return h(PzxPanel,{save,onEnter:()=>{setPhase('pzxmap');phaseR.current='pzxmap';},onBack:()=>{setPhase('menu');phaseR.current='menu';},onReset:()=>{updSave(s=>{s.pzx={got:[],won:[],boss:false};return s;});}}); // v214/v218 リセットは進行だけ消す（本編の★は無関係）
-  if(phase==='pzxmap')return h(PzxWorld,{key:'w'+(pzxArrive?pzxArrive.t:'0'),save,arrive:pzxArrive,onArrived:()=>setPzxArrive(null),onPick:startPzxStage,onBack:()=>{setPzxArrive(null);setPhase('pzx');phaseR.current='pzx';}}); // v217/v223
+  if(phase==='pzx')return h(PzxPanel,{save,onEnter:()=>{setPhase('pzxmap');phaseR.current='pzxmap';},onBack:()=>{setPhase('menu');phaseR.current='menu';},onReset:()=>{updSave(s=>{s.pzx={got:[]};return s;});}}); // v214/v218 リセットは進行だけ消す（本編の★は無関係）
+  if(phase==='pzxmap')return h(PzxWorld,{onBack:()=>{setPhase('pzx');phaseR.current='pzx';}}); // v225
   if(phase==='menu')return h(TitleScreen,{onPlay:()=>{setPhase('map');phaseR.current='map';},onPuzzlux:()=>{setPhase('pzx');phaseR.current='pzx';},onTutorial:()=>openTutorial(null),musicOn:musicEnabled,toggleMusic});
   if(phase==='champIntro'&&curStage&&curStage.champion)return h(ChampionIntroScreen,{champ:CHAMPIONS[curStage.champion],stage:curStage,onStart:()=>goIntro(pendingDiff)});
   if(phase==='intro'&&curStage&&curStage.intro)return h(IntroVideoScreen,{src:curStage.intro,onDone:()=>goBrief(pendingDiff)}); // v120
@@ -5812,9 +5648,6 @@ function App(){
       setTimeout(()=>startStage(0,si),80);
     }});
   if(phase==='gameEnd'&&gameEndData){
-    if(stageCtx&&stageCtx.ar===1&&gameEndData.pzx){const i=stageCtx.st,L=pzxLastR.current||{};
-      return h(PzxResult,{key:'pzx'+i+'-'+(L.t||0),data:gameEndData,st:PZX_STAGES[i],idx:i,gotNow:!!L.gotNow,pieceIdx:i<6?i:null,nextOpen:i<6&&pzxOpen(save,i+1),
-        onNext:()=>startPzxStage(i+1),onRetry:()=>startPzxStage(i),onMap:()=>{setPzxArrive({from:i,gotPiece:(L.gotNow&&i<6)?i:null,unlock:L.unlock!=null?L.unlock:null,t:Date.now()});goPzxWorld();}});} // v217/v223
     if(stageCtx)return h(StageEndScreen,{data:gameEndData,stage:curStage,stars:gameEndData.stars||0,onNext:stageNext,onRetry:()=>startStage(stageCtx.ar,stageCtx.st),onMap:goMap,isLast:(()=>{const nx=STAGES.areas[stageCtx.ar].stages[stageCtx.st+1];return !nx||!!nx.comingSoon||!!nx.challenge;})()});
     return h(GameEndScreen,{data:gameEndData,onRestart:startGame,onHome:goHome});
   }
